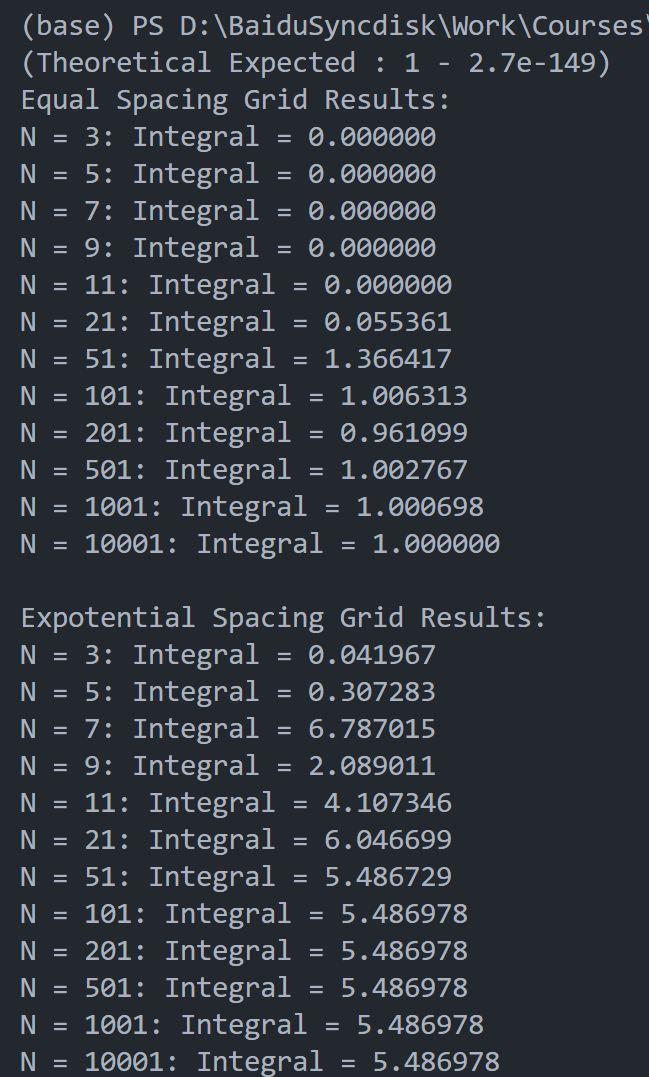
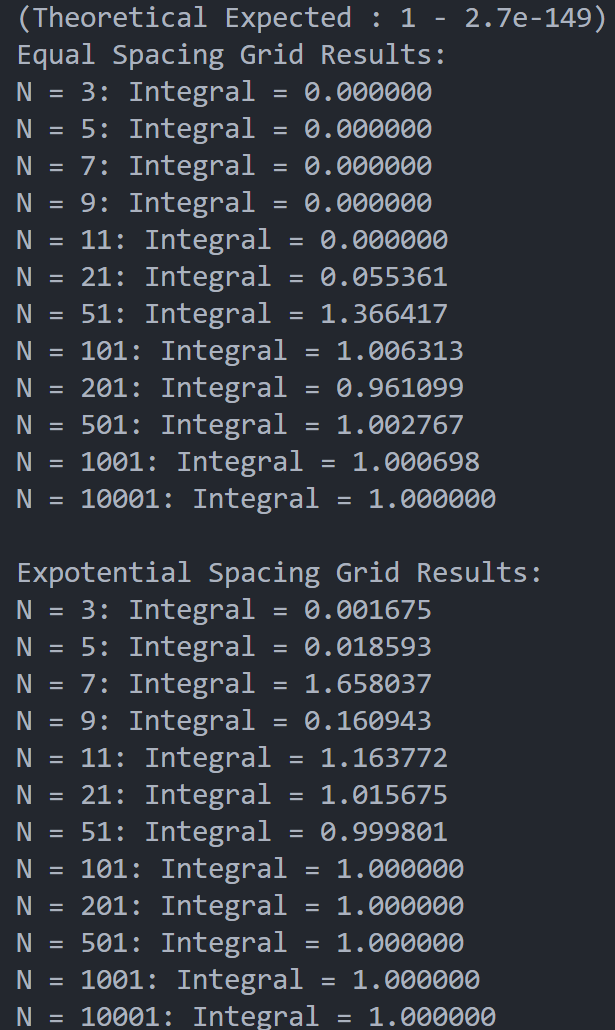
修复积分变换因子

Changed region(s): [[0.0309, 0.0, 1.0, 1.0]]

diff --git a/Assignment_5/Problem_3/src/simpson.py b/Assignment_5/Problem_3/src/simpson.py
@@ -95,7 +95,8 @@ def compute_integral_exp_spacing(
         t = np.linspace(0, t_max, N)
         r = r0 * (np.exp(t) - 1)
         f = integrand(r, Z, n)
-        integral = simpsons_rule(r, f)
+        frator = r0 * np.exp(t)
+        integral = simpsons_rule(t, f * frator)
         results[N] = integral
     return results
 
